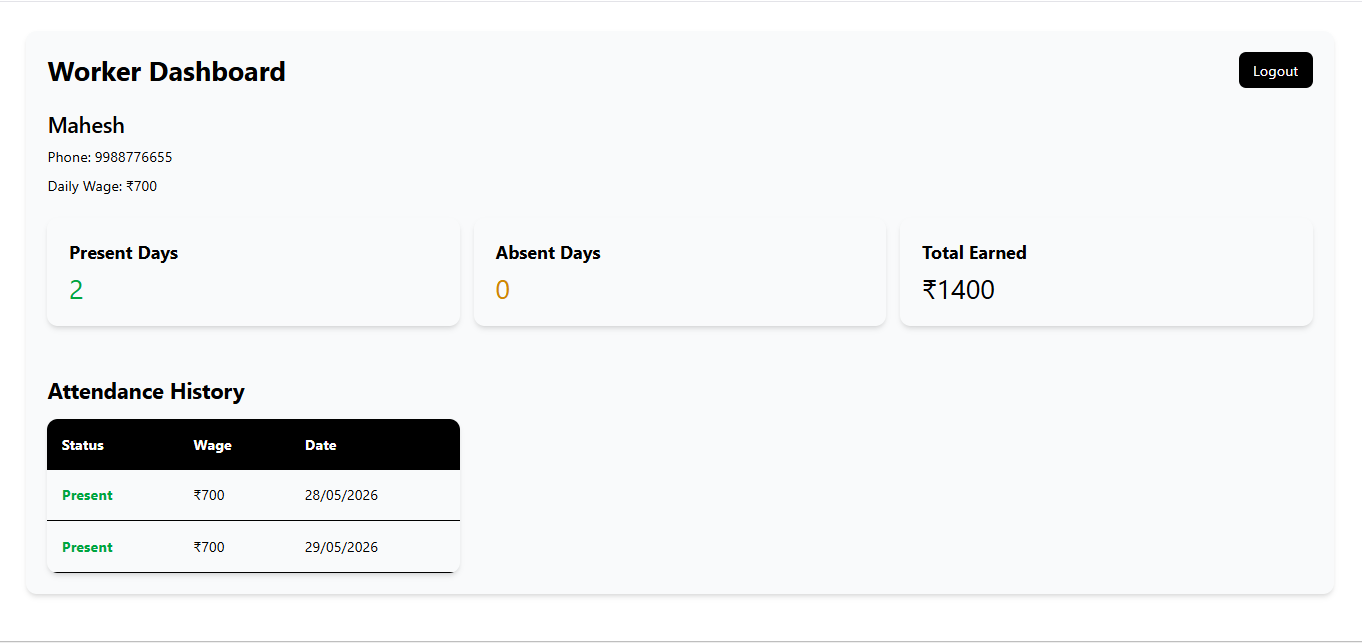
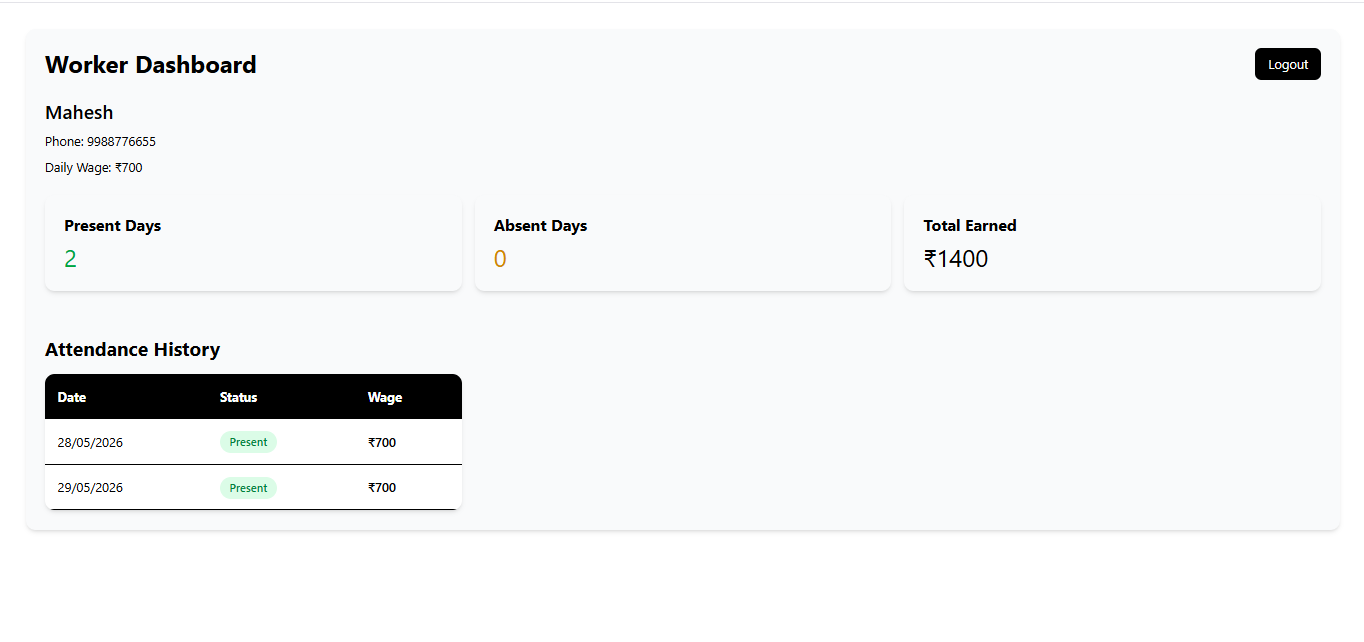
Final UI updates and deployment ready

diff --git a/frontend/src/pages/WorkerDashboard.jsx b/frontend/src/pages/WorkerDashboard.jsx
@@ -11,9 +11,21 @@ function WorkerDashboard() {
 
     navigate("/worker-login");
   };
+
   const fetchAttendance = async () => {
     try {
-      const res = await axios.get("http://localhost:5000/api/attendance");
+      const worker = JSON.parse(localStorage.getItem("worker"));
+
+      const token = localStorage.getItem("token");
+
+      const res = await axios.get(
+        "https://daily-wage-tracker-ima6.onrender.com/api/attendance",
+        {
+          headers: {
+            Authorization: `Bearer ${token}`,
+          },
+        },
+      );
 
       const workerAttendance = res.data.filter(
         (item) => item.workerId?._id === worker._id,
@@ -29,21 +41,25 @@ function WorkerDashboard() {
     fetchAttendance();
   }, []);
 
-  const totalPresent = attendance.filter(
+  const presentDays = attendance.filter(
     (item) => item.status === "Present",
   ).length;
 
-  const totalAbsent = attendance.filter(
+  const absentDays = attendance.filter(
     (item) => item.status === "Absent",
   ).length;
 
-  const totalWages = attendance.reduce((sum, item) => sum + item.wageForDay, 0);
+  const totalEarned = attendance
+    .filter((item) => item.status === "Present")
+    .reduce((sum, item) => sum + item.wageForDay, 0);
 
   return (
     <div className="min-h-screen p-4 md:p-8">
       <div className="bg-gray-50 p-6 rounded-xl shadow-md">
         <div className="flex justify-between items-center">
-          <h1 className="text-2xl md:text-3xl text-black font-bold">Worker Dashboard</h1>
+          <h1 className="text-2xl md:text-3xl text-black font-bold">
+            Worker Dashboard
+          </h1>
 
           <button
             onClick={handleLogout}
@@ -64,60 +80,81 @@ function WorkerDashboard() {
           <div className="bg-gray-50 p-6 rounded-xl shadow-md">
             <h2 className="text-xl text-black font-bold">Present Days</h2>
 
-            <p className="text-2xl md:text-3xl mt-2 text-green-600">{totalPresent}</p>
+            <p className="text-2xl md:text-3xl mt-2 text-green-600">
+              {presentDays}
+            </p>
           </div>
 
           <div className="bg-gray-50 p-6 rounded-xl shadow-md">
             <h2 className="text-xl text-black font-bold">Absent Days</h2>
 
-            <p className="text-2xl md:text-3xl mt-2 text-yellow-600">{totalAbsent}</p>
+            <p className="text-2xl md:text-3xl mt-2 text-yellow-600">
+              {absentDays}
+            </p>
           </div>
 
           <div className="bg-gray-50 p-6 rounded-xl shadow-md">
             <h2 className="text-xl text-black font-bold">Total Earned</h2>
 
-            <p className="text-2xl md:text-3xl text-black mt-2">₹{totalWages}</p>
+            <p className="text-2xl md:text-3xl text-black mt-2">
+              ₹{totalEarned}
+            </p>
           </div>
-
           <div className="mt-10">
-            <h2 className="text-2xl text-black font-bold mb-4">Attendance History</h2>
+            <h2 className="text-2xl text-black font-bold mb-4">
+              Attendance History
+            </h2>
 
-            <div className="bg-gray-50 rounded-xl shadow-md overflow-hidden">
+            <div className="bg-white rounded-xl shadow-md overflow-hidden">
               <div className="overflow-x-auto">
                 <table className="w-full text-sm md:text-base">
-                <thead className="bg-black text-white">
-                  <tr>
-                    <th className="p-4 text-left">Status</th>
-
-                    <th className="p-4 text-left">Wage</th>
-
-                    <th className="p-4 text-left">Date</th>
-                  </tr>
-                </thead>
-
-                <tbody>
-                  {attendance.map((item) => (
-                    <tr key={item._id} className="border-b">
-                      <td className="p-4">
-                        <span
-                          className={
-                            item.status === "Present"
-                              ? "text-green-600 font-bold"
-                              : "text-yellow-600 font-bold"
-                          }
-                        >
-                          {item.status}
-                        </span>
-                      </td>
-
-                      <td className="p-4">₹{item.wageForDay}</td>
-
-                      <td className="p-4">
-                        {new Date(item.date).toLocaleDateString()}
-                      </td>
+                  <thead>
+                    <tr className="bg-black text-white">
+                      <th className="p-4 text-left">Date</th>
+                      <th className="p-4 text-left">Status</th>
+                      <th className="p-4 text-left">Wage</th>
                     </tr>
-                  ))}
-                </tbody>
+                  </thead>
+
+                  <tbody>
+                    {attendance.length > 0 ? (
+                      attendance.map((item) => (
+                        <tr
+                          key={item._id}
+                          className="border-b hover:bg-gray-50 transition"
+                        >
+                          <td className="p-4">
+                            {new Date(item.date).toLocaleDateString()}
+                          </td>
+
+                          <td className="p-4">
+                            <span
+                              className={`px-3 py-1 rounded-full text-sm font-medium ${
+                                item.status === "Present"
+                                  ? "bg-green-100 text-green-700"
+                                  : "bg-red-100 text-red-700"
+                              }`}
+                            >
+                              {item.status}
+                            </span>
+                          </td>
+
+                          <td className="p-4 font-medium">
+                            ₹{item.wageForDay}
+                          </td>
+                        </tr>
+                      ))
+                    ) : (
+                      <tr>
+                        <td
+                          colSpan="3"
+                          className="text-center py-6 text-gray-500"
+                        >
+                          No attendance records found
+                        </td>
+                      </tr>
+                    )}
+                  </tbody>
                 </table>
               </div>
             </div>

diff --git a/frontend/src/pages/Dashboard.jsx b/frontend/src/pages/Dashboard.jsx
@@ -26,7 +26,7 @@ function Dashboard() {
     try {
       const token = localStorage.getItem("token");
 
-      const res = await axios.get("http://localhost:5000/api/workers", {
+      const res = await axios.get("https://daily-wage-tracker-ima6.onrender.com/api/workers", {
         headers: {
           Authorization: `Bearer ${token}`,
         },
@@ -42,7 +42,7 @@ function Dashboard() {
     try {
       const token = localStorage.getItem("token");
 
-      const res = await axios.get("http://localhost:5000/api/attendance", {
+      const res = await axios.get("https://daily-wage-tracker-ima6.onrender.com/api/attendance", {
         headers: {
           Authorization: `Bearer ${token}`,
         },
@@ -59,7 +59,7 @@ function Dashboard() {
     try {
       const token = localStorage.getItem("token");
 
-      await axios.delete(`http://localhost:5000/api/workers/${id}`, {
+      await axios.delete(`https://daily-wage-tracker-ima6.onrender.com/api/attendanc${id}`, {
         headers: {
           Authorization: `Bearer ${token}`,
         },
@@ -90,7 +90,7 @@ function Dashboard() {
       const token = localStorage.getItem("token");
 
       await axios.post(
-        "http://localhost:5000/api/attendance",
+        "https://daily-wage-tracker-ima6.onrender.com/",
         {
           workerId,
           status,
@@ -127,7 +127,7 @@ function Dashboard() {
       if (editingWorker) {
         // update existing worker
         await axios.put(
-          `http://localhost:5000/api/workers/${editingWorker._id}`,
+          `https://daily-wage-tracker-ima6.onrender.com/api/workers${editingWorker._id}`,
           {
             name,
             phone,
@@ -144,7 +144,7 @@ function Dashboard() {
       } else {
         // create new worker
         await axios.post(
-          "http://localhost:5000/api/workers",
+          "https://daily-wage-tracker-ima6.onrender.com/",
           {
             name,
             phone,

diff --git a/frontend/src/pages/WorkerLogin.jsx b/frontend/src/pages/WorkerLogin.jsx
@@ -12,9 +12,8 @@ function WorkerLogin() {
 
     try {
       const res = await axios.get(
-        `http://localhost:5000/api/workers/phone/${phone}`,
+        `https://daily-wage-tracker-ima6.onrender.com/api/workers/phone/${phone}`,
       );
-
       localStorage.setItem("worker", JSON.stringify(res.data));
 
       navigate("/worker-dashboard");
@@ -39,7 +38,10 @@ function WorkerLogin() {
             className="w-full border p-3 rounded-lg mb-4 bg-white"
           />
 
-          <button type="submit" className="w-full bg-black text-white p-3 rounded-lg">
+          <button
+            type="submit"
+            className="w-full bg-black text-white p-3 rounded-lg"
+          >
             Login
           </button>
         </form>

diff --git a/frontend/src/pages/Register.jsx b/frontend/src/pages/Register.jsx
@@ -14,7 +14,7 @@ function Register() {
     e.preventDefault();
 
     try {
-      const res = await axios.post("http://localhost:5000/api/auth/register", {
+      const res = await axios.post("https://daily-wage-tracker-ima6.onrender.com/api/auth/register", {
         name,
         phone,
         password,

diff --git a/frontend/src/pages/Login.jsx b/frontend/src/pages/Login.jsx
@@ -13,7 +13,7 @@ function Login() {
     e.preventDefault();
 
     try {
-      const res = await axios.post("http://localhost:5000/api/auth/login", {
+      const res = await axios.post("https://daily-wage-tracker-ima6.onrender.com/api/auth/login", {
         phone,
         password,
       });

diff --git a/backend/src/server.js b/backend/src/server.js
@@ -13,7 +13,7 @@ connectDB();
 
 app.use(
   cors({
-    origin: ["http://localhost:5173"],
+    origin: ["https://daily-wage-tracker-ima6.onrender.com/"],
     credentials: true,
   }),
 );
